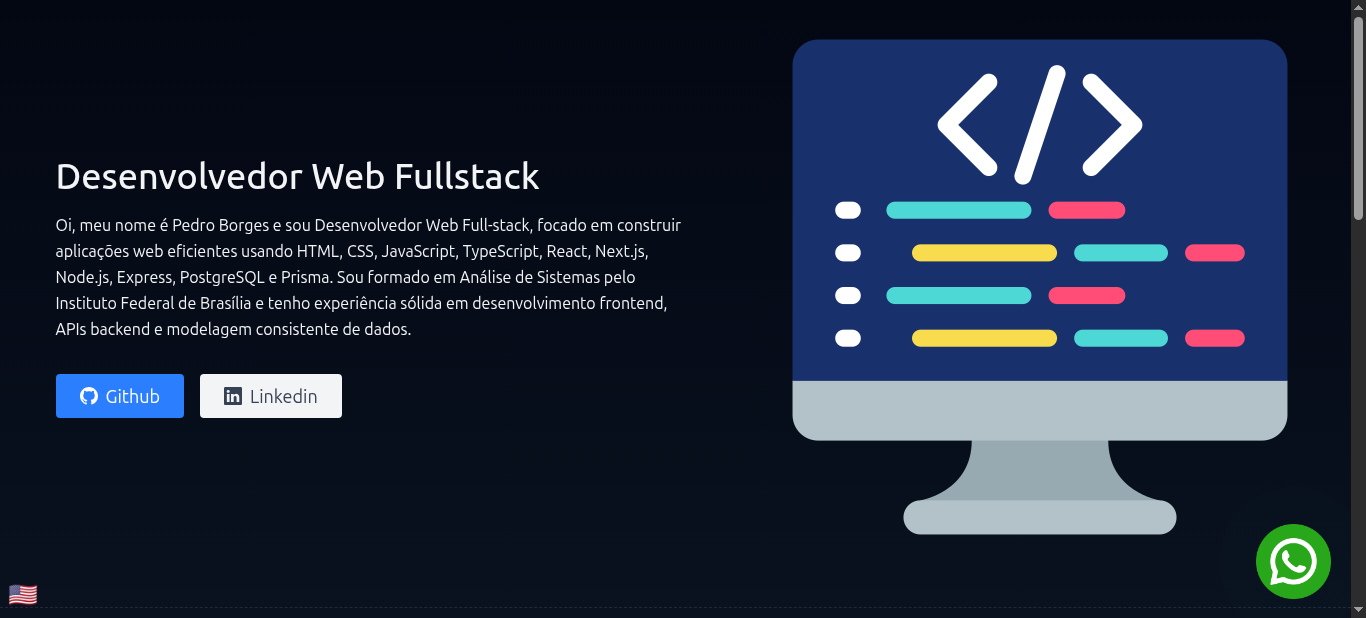
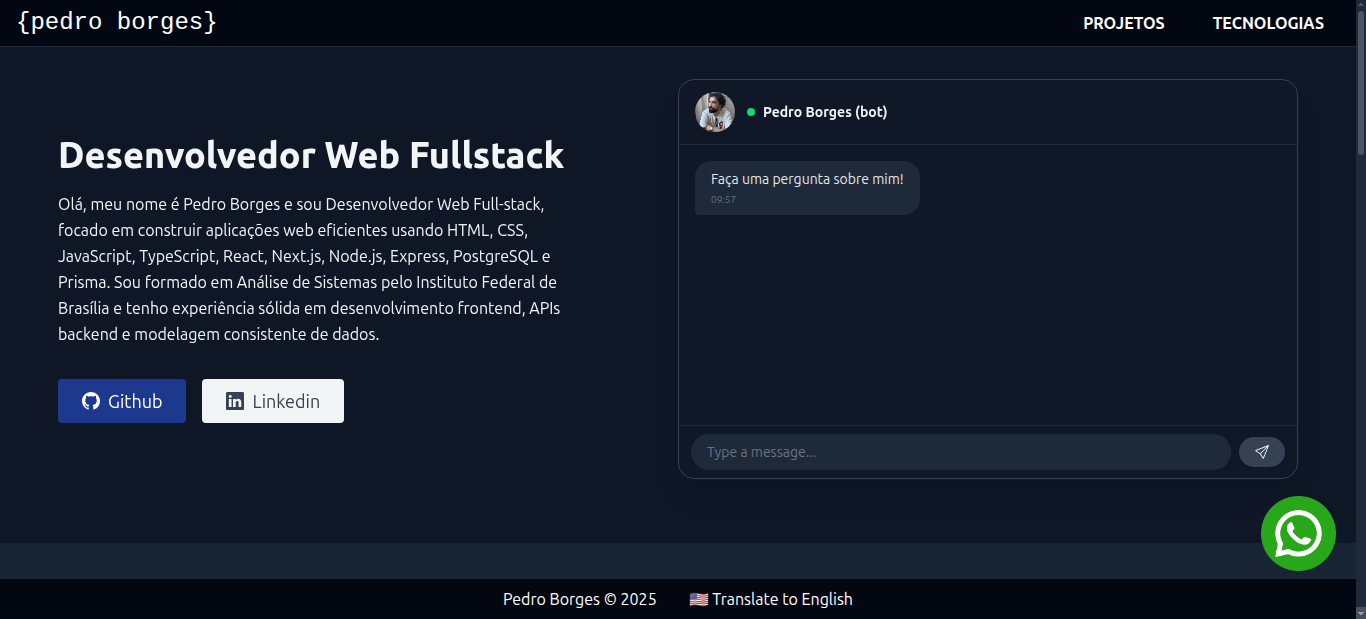
remove: projects

diff --git a/src/content/content.ts b/src/content/content.ts
@@ -35,58 +35,6 @@ export const sectionTitles = {
 
 export const projects: ProjectType[] = [
   {
-    title: "Car Wash",
-    image: "/car-wash.png",
-    description: {
-      en: "Fullstack project that allows a Car Wash to manage clients, cars, washes, debts, etc.",
-      pt: "Projeto Fullstack que permite a um Lava Jato gerenciar clientes, carros, lavagens, débitos, etc."
-    },
-    techs: [
-      "Vite",
-      "HTML",
-      "Tailwind CSS",
-      "Typescript",
-      "React.js",
-      "react-icons",
-      "React Router DOM",
-      "Sonner",
-      "React Query",
-      "Node.js",
-      "Recharts",
-      "File Saver",
-      "Express.js",
-      "JWT",
-      "Prisma"
-    ],
-    demo: "https://lavajatoplanaltina.vercel.app/",
-    github: "https://github.com/dspedroborges/car-wash",
-    inProgress: true,
-  },
-  {
-    title: "Quiz Maker",
-    image: "/quiz-maker.png",
-    description: {
-      en: "Quiz Maker is an web app, with support to Latex, that allows the user to create quizzes manually or by using LLM and play with them",
-      pt: "Quiz Maker é um aplicativo web, com suporte a Latex, que permite ao usuário criar quizzes manualmente ou por meio de LLM."
-    },
-    techs: [
-      "Vite",
-      "HTML",
-      "Tailwind CSS",
-      "Typescript",
-      "React.js",
-      "react-icons",
-      "React Router DOM",
-      "Sonner",
-      "React Query",
-      "React Katex",
-      "React Timer Hook"
-    ],
-    demo: "https://quizmakerproject.vercel.app/",
-    github: "https://github.com/dspedroborges/quiz-maker",
-    inProgress: true,
-  },
-  {
     title: "World View",
     image: "/world-view.gif",
     description: {
